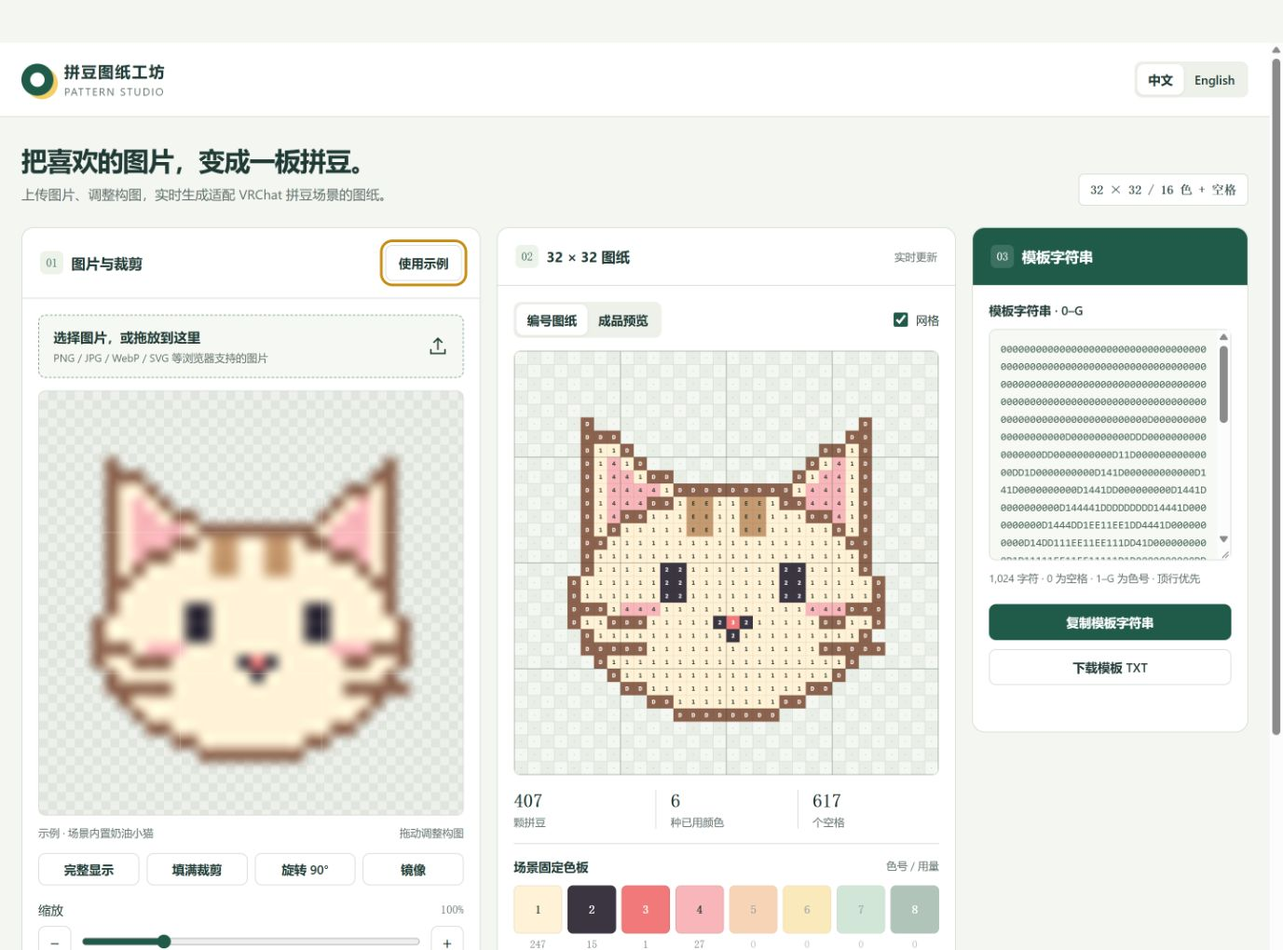
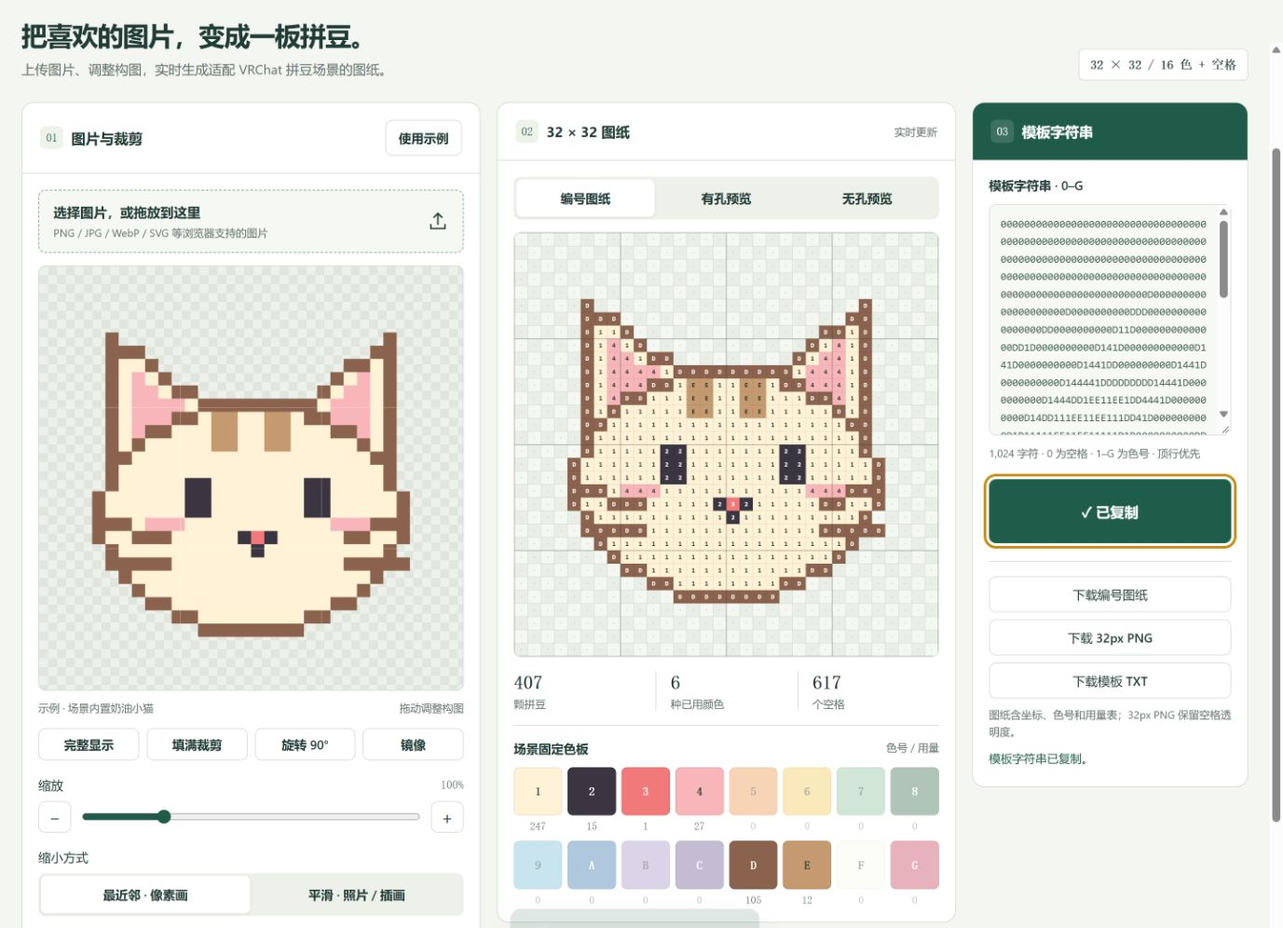
no message

diff --git a/index.html b/index.html
@@ -11,9 +11,12 @@
 *{box-sizing:border-box}body{margin:0;background:var(--paper);color:var(--ink)}button,input,select,textarea{font:inherit}button,select{cursor:pointer}button{border:1px solid var(--line);border-radius:8px;background:white;color:var(--ink);padding:10px 14px;font-size:.875rem;font-weight:600;transition:background .15s,transform .15s}button:hover{background:#edf2eb}button:active{transform:translateY(1px)}button:disabled{opacity:.42;cursor:not-allowed}button.primary{background:var(--green);color:white;border-color:var(--green)}button.primary:hover{background:#164534}:focus-visible{outline:3px solid #c78d14;outline-offset:3px}button:focus-visible{position:relative;z-index:2}
 .topbar{padding:20px max(24px,calc((100vw - 1440px)/2));border-bottom:1px solid var(--line);display:flex;align-items:center;justify-content:space-between;gap:16px;background:#fff}.brand{display:flex;gap:12px;align-items:center}.brand-mark{width:36px;height:36px;border:10px solid var(--green);border-radius:50%;box-shadow:5px 4px 0 var(--yellow)}.brand-name{font-weight:800;font-size:1.1rem;letter-spacing:.08em}.brand-sub{font-size:.75rem;letter-spacing:.18em;margin-top:3px;color:var(--muted)}main{max-width:1488px;margin:auto;padding:28px 24px 40px}.intro{display:flex;justify-content:space-between;align-items:end;gap:24px;margin-bottom:24px}h1{font-size:1.85rem;letter-spacing:-.04em;margin:0 0 7px}p{line-height:1.65;margin:0}.intro p{color:var(--muted);font-size:.9375rem}.spec{font:600 .875rem ui-monospace,monospace;border:1px solid var(--line);padding:9px 12px;border-radius:6px;white-space:nowrap;background:white}
 .workspace{display:grid;grid-template-columns:minmax(0,1fr) minmax(0,1fr) 310px;gap:18px;align-items:start}.panel{background:white;border:1px solid var(--line);border-radius:14px;overflow:hidden;min-width:0}.panel-head{padding:19px 20px;display:flex;justify-content:space-between;align-items:center;gap:12px;border-bottom:1px solid var(--line)}h2{font-size:1rem;display:flex;gap:9px;align-items:center;margin:0}.step{display:inline-grid;place-items:center;color:var(--green);background:#eef3e9;width:26px;height:26px;border-radius:6px;font:.8rem ui-monospace,monospace}.subtle{font-size:.75rem;color:var(--muted)}.panel-body{padding:18px}.upload{width:100%;display:flex;justify-content:space-between;align-items:center;gap:12px;border:1px dashed #8ca99b;padding:14px 16px;background:#f6f9f3;text-align:left;margin-bottom:14px}.upload strong{display:block;font-size:.9375rem}.upload small{display:block;color:var(--muted);font-size:.75rem;font-weight:400;margin-top:5px}.upload svg{flex-shrink:0}.file-input{position:absolute;width:1px;height:1px;opacity:0;overflow:hidden;pointer-events:none}
-.stage{position:relative;background-color:#edf0eb;background-image:linear-gradient(45deg,#e0e6de 25%,transparent 25%),linear-gradient(-45deg,#e0e6de 25%,transparent 25%),linear-gradient(45deg,transparent 75%,#e0e6de 75%),linear-gradient(-45deg,transparent 75%,#e0e6de 75%);background-size:20px 20px;background-position:0 0,0 10px,10px -10px,-10px 0;border:1px solid var(--line);border-radius:8px;overflow:hidden;aspect-ratio:1}.stage canvas{display:block;width:100%;height:100%}#cropCanvas{touch-action:none;cursor:grab}#cropCanvas:active{cursor:grabbing}.crop-guides{position:absolute;inset:0;pointer-events:none;background:linear-gradient(90deg,transparent calc(33.333% - .5px),#ffffff70 33.333%,transparent calc(33.333% + .5px),transparent calc(66.667% - .5px),#ffffff70 66.667%,transparent calc(66.667% + .5px)),linear-gradient(transparent calc(33.333% - .5px),#ffffff70 33.333%,transparent calc(33.333% + .5px),transparent calc(66.667% - .5px),#ffffff70 66.667%,transparent calc(66.667% + .5px))}.stage-note{display:flex;justify-content:space-between;gap:10px;color:var(--muted);font-size:.75rem;padding:10px 0 14px;line-height:1.5}.stage-note span:first-child{overflow:hidden;text-overflow:ellipsis;white-space:nowrap}.tool-row{display:flex;gap:8px;flex-wrap:wrap}.tool-row button{flex:1;white-space:nowrap;padding:8px 10px}.field{margin-top:18px}.field-label{display:flex;align-items:center;justify-content:space-between;gap:12px;font-size:.875rem;margin-bottom:9px}.field-label output{color:var(--muted);font: .8125rem ui-monospace,monospace}.range-row{display:flex;gap:10px;align-items:center}.range-row button{padding:4px 11px;font-size:1.2rem;font-weight:400}input[type=range]{width:100%;accent-color:var(--green);cursor:pointer;height:22px}select{border:1px solid var(--line);background:white;border-radius:7px;padding:10px 30px 10px 10px;width:100%;color:var(--ink);font-size:.875rem;min-width:0}.select-row{display:grid;grid-template-columns:1fr 1fr;gap:12px}.field-hint{font-size:.75rem;color:var(--muted);line-height:1.6;margin-top:8px}.preview-toolbar{display:flex;align-items:center;justify-content:space-between;gap:8px;margin-bottom:14px}.segmented{display:flex;background:#edf1ea;padding:3px;border-radius:8px}.segmented button{background:transparent;border:0;padding:8px 12px;box-shadow:none}.segmented button[aria-pressed=true]{background:white;box-shadow:0 1px 3px #1c382418}.check{display:flex;align-items:center;gap:6px;font-size:.8125rem;white-space:nowrap}input[type=checkbox]{accent-color:var(--green);width:16px;height:16px}.stats{display:grid;grid-template-columns:repeat(3,1fr);border-bottom:1px solid var(--line);padding:16px 0;margin-bottom:16px}.stat+.stat{border-left:1px solid var(--line);padding-left:16px}.stat strong{font:700 1.3rem ui-monospace,monospace}.stat span{display:block;font-size:.75rem;color:var(--muted);margin-top:4px}.palette-title{font-size:.875rem;font-weight:600;margin-bottom:12px;display:flex;justify-content:space-between;gap:10px}.palette-title span{font-size:.75rem;color:var(--muted);font-weight:400}.palette{display:grid;grid-template-columns:repeat(8,1fr);gap:10px 6px}.swatch{text-align:center;min-width:0}.chip{aspect-ratio:1;border-radius:6px;display:grid;place-items:center;border:1px solid #00000012;font:600 .8125rem ui-monospace,monospace}.swatch small{font:.75rem ui-monospace,monospace;color:var(--muted);display:block;margin-top:5px}.swatch.unused{opacity:.45}.download-row{margin-top:18px;display:flex;gap:8px}.download-row button{flex:1}.export-panel .panel-head{background:var(--green);color:white}.export-panel .step{background:#ffffff20;color:#fff}.export-panel label{font-size:.875rem}.code-info{font-size:.75rem;color:var(--muted);margin:10px 0;line-height:1.6;min-height:38px}textarea{display:block;width:100%;height:154px;resize:vertical;border:1px solid var(--line);border-radius:8px;padding:12px;background:#f7f9f5;color:#506b5f;font:.75rem/1.65 ui-monospace,Consolas,monospace;word-break:break-all}.full{width:100%;margin-top:10px}.status{font-size:.8125rem;color:var(--green);min-height:24px;margin-top:10px;line-height:1.6}.status.error{color:#a5332b}.footer{display:flex;justify-content:space-between;gap:20px;margin-top:24px;font-size:.75rem;color:var(--muted);line-height:1.7}.drop-active .panel:first-child{outline:3px dashed var(--green);outline-offset:4px}.empty-note{margin-top:12px;color:#a5332b;font-size:.8125rem}[hidden]{display:none!important}noscript{display:block;padding:20px;background:#fff1cd}
+.stage{position:relative;background-color:#edf0eb;background-image:linear-gradient(45deg,#e0e6de 25%,transparent 25%),linear-gradient(-45deg,#e0e6de 25%,transparent 25%),linear-gradient(45deg,transparent 75%,#e0e6de 75%),linear-gradient(-45deg,transparent 75%,#e0e6de 75%);background-size:20px 20px;background-position:0 0,0 10px,10px -10px,-10px 0;border:1px solid var(--line);border-radius:8px;overflow:hidden;aspect-ratio:1}.stage canvas{display:block;width:100%;height:100%}#cropCanvas{touch-action:none;cursor:grab}#cropCanvas:active{cursor:grabbing}.crop-guides{position:absolute;inset:0;pointer-events:none;background:linear-gradient(90deg,transparent calc(33.333% - .5px),#ffffff70 33.333%,transparent calc(33.333% + .5px),transparent calc(66.667% - .5px),#ffffff70 66.667%,transparent calc(66.667% + .5px)),linear-gradient(transparent calc(33.333% - .5px),#ffffff70 33.333%,transparent calc(33.333% + .5px),transparent calc(66.667% - .5px),#ffffff70 66.667%,transparent calc(66.667% + .5px))}.stage-note{display:flex;justify-content:space-between;gap:10px;color:var(--muted);font-size:.75rem;padding:10px 0 14px;line-height:1.5}.stage-note span:first-child{overflow:hidden;text-overflow:ellipsis;white-space:nowrap}.tool-row{display:flex;gap:8px;flex-wrap:wrap}.tool-row button{flex:1;white-space:nowrap;padding:8px 10px}.field{margin-top:18px}.field-label{display:flex;align-items:center;justify-content:space-between;gap:12px;font-size:.875rem;margin-bottom:9px}.field-label output{color:var(--muted);font: .8125rem ui-monospace,monospace}.range-row{display:flex;gap:10px;align-items:center}.range-row button{padding:4px 11px;font-size:1.2rem;font-weight:400}input[type=range]{width:100%;accent-color:var(--green);cursor:pointer;height:22px}select{border:1px solid var(--line);background:white;border-radius:7px;padding:10px 30px 10px 10px;width:100%;color:var(--ink);font-size:.875rem;min-width:0}.select-row{display:grid;grid-template-columns:1fr 1fr;gap:12px}.field-hint{font-size:.75rem;color:var(--muted);line-height:1.6;margin-top:8px}.preview-toolbar{display:flex;align-items:center;justify-content:space-between;gap:8px;margin-bottom:14px}.segmented{display:flex;background:#edf1ea;padding:3px;border-radius:8px}.segmented button{background:transparent;border:0;padding:8px 12px;box-shadow:none}.segmented button[aria-pressed=true]{background:white;box-shadow:0 1px 3px #1c382418}.stats{display:grid;grid-template-columns:repeat(3,1fr);border-bottom:1px solid var(--line);padding:16px 0;margin-bottom:16px}.stat+.stat{border-left:1px solid var(--line);padding-left:16px}.stat strong{font:700 1.3rem ui-monospace,monospace}.stat span{display:block;font-size:.75rem;color:var(--muted);margin-top:4px}.palette-title{font-size:.875rem;font-weight:600;margin-bottom:12px;display:flex;justify-content:space-between;gap:10px}.palette-title span{font-size:.75rem;color:var(--muted);font-weight:400}.palette{display:grid;grid-template-columns:repeat(8,1fr);gap:10px 6px}.swatch{text-align:center;min-width:0}.chip{aspect-ratio:1;border-radius:6px;display:grid;place-items:center;border:1px solid #00000012;font:600 .8125rem ui-monospace,monospace}.swatch small{font:.75rem ui-monospace,monospace;color:var(--muted);display:block;margin-top:5px}.swatch.unused{opacity:.45}.export-panel .panel-head{background:var(--green);color:white}.export-panel .step{background:#ffffff20;color:#fff}.export-panel label{font-size:.875rem}.code-info{font-size:.75rem;color:var(--muted);margin:10px 0;line-height:1.6;min-height:38px}textarea{display:block;width:100%;height:154px;resize:vertical;border:1px solid var(--line);border-radius:8px;padding:12px;background:#f7f9f5;color:#506b5f;font:.75rem/1.65 ui-monospace,Consolas,monospace;word-break:break-all}.full{width:100%;margin-top:10px}.status{font-size:.8125rem;color:var(--green);min-height:24px;margin-top:10px;line-height:1.6}.status.error{color:#a5332b}.footer{display:flex;justify-content:space-between;gap:20px;margin-top:24px;font-size:.75rem;color:var(--muted);line-height:1.7}.drop-active .panel:first-child{outline:3px dashed var(--green);outline-offset:4px}.empty-note{margin-top:12px;color:#a5332b;font-size:.8125rem}[hidden]{display:none!important}noscript{display:block;padding:20px;background:#fff1cd}
 @media(min-width:1500px){.workspace{grid-template-columns:minmax(0,1fr) minmax(0,1fr) 320px}}@media(max-width:1150px){.workspace{grid-template-columns:minmax(0,1fr) minmax(0,1fr)}.export-panel{grid-column:1/-1}.export-panel .panel-body{max-width:none}.code-info{min-height:0}}@media(max-width:680px){.topbar{padding:17px 18px}main{padding:22px 14px}.intro{display:block}.intro h1{font-size:1.6rem}.spec{display:inline-block;margin-top:14px}.workspace{display:block}.panel{margin-bottom:18px}.panel-head{padding:17px}.panel-body{padding:15px}.export-panel .panel-body{display:block}.footer{display:block}.footer span{display:block;margin-bottom:4px}.palette{gap:10px 8px}}
 .language-switch{flex-shrink:0}.language-switch button{font-weight:600}.code-label{display:block;margin-bottom:12px;font-weight:600}.code-info{min-height:0}textarea{height:260px}.brand-sub{letter-spacing:.12em}.tool-row button{white-space:normal}@media(max-width:680px){.brand-sub{display:none}.brand-name{font-size:1rem;letter-spacing:0}.brand{gap:10px}.language-switch button{padding:8px 10px}.topbar{gap:10px}.tool-row{display:grid;grid-template-columns:repeat(2,minmax(0,1fr))}.code-info{font-size:.8125rem}}
+.preview-modes{display:grid;grid-template-columns:repeat(3,minmax(0,1fr));width:100%;gap:3px}.preview-option{position:relative;min-width:0}.preview-option input{position:absolute;opacity:0;width:1px;height:1px}.preview-option label{display:grid;place-items:center;min-height:42px;height:100%;padding:9px 8px;border-radius:6px;font-size:.875rem;font-weight:600;text-align:center;cursor:pointer;line-height:1.4}.preview-option input:checked+label{background:#fff;box-shadow:0 1px 3px #1c382418}.preview-option input:focus-visible+label{outline:3px solid #c78d14;outline-offset:1px}.copy-main{min-height:72px;padding:22px 16px;font-size:1rem;font-weight:700}.download-actions{display:grid;gap:8px;border-top:1px solid var(--line);margin-top:20px;padding-top:16px}.download-actions button{width:100%;font-weight:500;background:#fff}.download-actions button:hover{background:#edf2eb}
+.copy-main.is-copied{background:#28754e;border-color:#28754e}.copy-toast{position:fixed;left:50%;bottom:max(24px,env(safe-area-inset-bottom));transform:translate(-50%,12px);z-index:1000;display:flex;align-items:center;gap:12px;width:max-content;max-width:calc(100vw - 32px);padding:17px 22px;border:1px solid #ffffff35;border-radius:12px;background:#205b4a;color:#fff;box-shadow:0 8px 32px #102a3540;font-size:1rem;font-weight:600;line-height:1.5;opacity:0;visibility:hidden;pointer-events:none;transition:opacity .16s ease,transform .16s ease,visibility .16s}.copy-toast.is-visible{opacity:1;visibility:visible;transform:translate(-50%,0)}.toast-icon{display:grid;place-items:center;flex-shrink:0;width:30px;height:30px;border-radius:50%;background:#ffffff24;font-size:1.2rem}@media(prefers-reduced-motion:reduce){.copy-toast{transition:none}}
+.sampling-modes{display:grid;grid-template-columns:repeat(2,minmax(0,1fr));width:100%;gap:3px}
 </style>
 </head>
 <body>
@@ -29,25 +32,26 @@
 <div class="stage-note"><span id="fileName">Example · Cream Kitten</span><span data-i18n="dragHint">Drag to adjust</span></div>
 <div class="tool-row"><button id="fitButton" type="button" data-i18n="fit">Fit image</button><button id="fillButton" type="button" data-i18n="fill">Fill square</button><button id="rotateButton" type="button" data-i18n="rotate" data-i18n-title="rotateTitle" title="Rotate 90 degrees clockwise">Rotate 90°</button><button id="mirrorButton" type="button" aria-pressed="false" data-i18n="mirror">Mirror</button></div>
 <div class="field"><label class="field-label" for="zoom"><span data-i18n="zoom">Zoom</span><output id="zoomValue" for="zoom">100%</output></label><div class="range-row"><button id="zoomOut" type="button" data-i18n-aria-label="zoomOut" aria-label="Zoom out">−</button><input id="zoom" type="range" min="10" max="400" step="0.1" value="100"><button id="zoomIn" type="button" data-i18n-aria-label="zoomIn" aria-label="Zoom in">+</button></div></div>
-<div class="select-row"><div class="field"><label class="field-label" for="sampling" data-i18n="sampling">Resampling</label><select id="sampling"><option value="smooth" data-i18n="smooth">Smooth · photos</option><option value="pixel" data-i18n="pixel">Nearest · pixel art</option></select></div><div class="field"><label class="field-label" for="dither" data-i18n="dither">Color transitions</label><select id="dither"><option value="none" data-i18n="blocks">Solid colors</option><option value="floyd" data-i18n="diffusion">Dither · gradients</option></select></div></div>
+<div class="field"><div class="field-label" id="samplingLabel" data-i18n="sampling">Resampling</div><div class="segmented sampling-modes" role="radiogroup" aria-labelledby="samplingLabel"><div class="preview-option"><input id="samplingNearest" type="radio" name="samplingMode" value="pixel" checked><label for="samplingNearest" data-i18n="pixel">Nearest neighbor (pixel art)</label></div><div class="preview-option"><input id="samplingSmooth" type="radio" name="samplingMode" value="smooth"><label for="samplingSmooth" data-i18n="smooth">Smooth (photos / illustrations)</label></div></div></div>
 <div class="select-row"><div class="field"><label class="field-label" for="background" data-i18n="background">Transparent areas</label><select id="background"><option value="empty" data-i18n="keepEmpty">Leave empty</option><option value="matte" data-i18n="fillBackground">Fill with background</option></select></div><div class="field"><label class="field-label" for="matte" data-i18n="matte">Edge / background color</label><select id="matte"></select></div></div>
 <div class="field" id="alphaField"><label class="field-label" for="alpha"><span data-i18n="alpha">Alpha threshold</span><output id="alphaValue" for="alpha">128 / 255</output></label><input id="alpha" type="range" min="1" max="255" value="128"><p class="field-hint" data-i18n="alphaHint">Pixels below this threshold stay empty. Translucent edges blend with the background color; raise the threshold to remove faint edges.</p></div>
 </div></section>
 <section class="panel" aria-labelledby="previewTitle"><div class="panel-head"><h2 id="previewTitle"><span class="step">02</span><span data-i18n="previewTitle">32 × 32 pattern</span></h2><span class="subtle" data-i18n="live">Live preview</span></div><div class="panel-body">
-<div class="preview-toolbar"><div class="segmented" data-i18n-aria-label="previewMode" aria-label="Preview mode"><button id="chartView" type="button" aria-pressed="true" data-i18n="chartView">Pattern</button><button id="beadView" type="button" aria-pressed="false" data-i18n="beadView">Bead preview</button></div><label class="check"><input id="showGrid" type="checkbox" checked><span data-i18n="grid">Grid</span></label></div>
+<div class="preview-toolbar"><div class="segmented preview-modes" role="radiogroup" data-i18n-aria-label="previewMode" aria-label="Preview mode"><div class="preview-option"><input id="chartView" type="radio" name="previewMode" value="chart" checked><label for="chartView" data-i18n="chartView">Pattern</label></div><div class="preview-option"><input id="holesView" type="radio" name="previewMode" value="holes"><label for="holesView" data-i18n="holesView">With holes</label></div><div class="preview-option"><input id="solidView" type="radio" name="previewMode" value="solid"><label for="solidView" data-i18n="solidView">No holes</label></div></div></div>
 <div class="stage"><canvas id="previewCanvas" width="1024" height="1024" role="img" aria-label="32 by 32 labeled bead pattern"></canvas></div>
 <div class="stats"><div class="stat"><strong id="beadCount">0</strong><span data-i18n="beads">beads</span></div><div class="stat"><strong id="colorCount">0</strong><span data-i18n="colorsUsed">colors used</span></div><div class="stat"><strong id="emptyCount">1024</strong><span data-i18n="emptyCells">empty cells</span></div></div>
 <div class="palette-title"><b data-i18n="paletteTitle">World palette</b><span data-i18n="paletteHint">Code / quantity</span></div><div class="palette" id="palette" data-i18n-aria-label="paletteAria" aria-label="16-color palette and bead counts"></div>
-<div class="field"><label class="field-label" for="finish" data-i18n="finish">Bead style</label><select id="finish"><option value="holes" data-i18n="holes">Round beads · HOLES</option><option value="solid" data-i18n="solid">Solid mosaic · SOLID</option></select></div>
-<div class="download-row"><button id="downloadChart" type="button" class="primary" data-i18n="downloadChart">Download pattern</button><button id="downloadPixels" type="button" data-i18n="downloadPixels">32px PNG</button></div>
-<p class="field-hint" data-i18n="downloadHint">The pattern includes coordinates, color codes and counts. The 32px PNG preserves transparent cells.</p><p id="emptyNote" class="empty-note" hidden data-i18n="emptyNote">The pattern is empty. Adjust the crop or lower the alpha threshold.</p>
+<p id="emptyNote" class="empty-note" hidden data-i18n="emptyNote">The pattern is empty. Adjust the crop or lower the alpha threshold.</p>
 </div></section>
 <section class="panel export-panel" aria-labelledby="exportTitle"><div class="panel-head"><h2 id="exportTitle"><span class="step">03</span><span data-i18n="exportTitle">Template string</span></h2></div><div class="panel-body">
 <label class="code-label" for="code" data-i18n="templateLabel">Template · 0–G</label><textarea id="code" spellcheck="false" readonly aria-describedby="codeInfo"></textarea><p class="code-info" id="codeInfo"></p>
-<button class="primary full" id="copyButton" type="button" data-i18n="copy">Copy template</button><button class="full" id="downloadCode" type="button" data-i18n="downloadCode">Download TXT</button><div class="status" id="status" role="status" aria-live="polite"></div>
+<button class="primary full copy-main" id="copyButton" type="button" data-i18n="copy">Copy template</button>
+<div class="download-actions"><button id="downloadChart" type="button" data-i18n="downloadChart">Download pattern</button><button id="downloadPixels" type="button" data-i18n="downloadPixels">32px PNG</button><button id="downloadCode" type="button" data-i18n="downloadCode">Download TXT</button></div>
+<p class="field-hint" data-i18n="downloadHint">The pattern includes coordinates, color codes and counts. The 32px PNG preserves transparent cells.</p><div class="status" id="status" role="status" aria-live="polite"></div>
 </div></section>
 </div><footer class="footer"><span data-i18n="footer">Made for the Pixel Beads VRChat world · Original 16-color palette</span></footer>
 </main>
+<div class="copy-toast" id="copyToast" role="status" aria-live="polite" aria-atomic="true"><span class="toast-icon" aria-hidden="true">✓</span><span id="copyToastText"></span></div>
 <script id="bead-core">
 // Contract: Assets/PixelBeads/Scripts/PBTemplates.cs.
 // Images and template strings use top-down, left-to-right order.
@@ -105,24 +109,24 @@ const BeadI18n = (() => {
       brand:'Pixel Beads', language:'Language', headline:'Turn a favorite image into bead art.', intro:'Upload an image and adjust the crop to create a pattern for the Pixel Beads VRChat world.', spec:'32 × 32 / 16 colors + empty',
       cropTitle:'Image & crop', demo:'Use example', chooseFile:'Choose an image file', upload:'Choose an image or drop it here', formats:'PNG / JPG / WebP / SVG and other supported images', cropAria:'Image crop. Drag or use arrow keys to move the image. Use the slider to zoom.',
       demoFile:'Example · Cream Kitten', demoName:'Cream Kitten', defaultName:'Bead pattern', dragHint:'Drag to adjust', fit:'Fit image', fill:'Fill square', rotate:'Rotate 90°', rotateTitle:'Rotate 90 degrees clockwise', mirror:'Mirror', zoom:'Zoom', zoomOut:'Zoom out', zoomIn:'Zoom in',
-      sampling:'Resampling', smooth:'Smooth · photos', pixel:'Nearest · pixel art', dither:'Color transitions', blocks:'Solid colors', diffusion:'Dither · gradients', background:'Transparent areas', keepEmpty:'Leave empty', fillBackground:'Fill with background', matte:'Edge / background color', alpha:'Alpha threshold', alphaHint:'Pixels below this threshold stay empty. Translucent edges blend with the background color; raise the threshold to remove faint edges.',
-      previewTitle:'32 × 32 pattern', live:'Live preview', previewMode:'Preview mode', chartView:'Pattern', beadView:'Bead preview', grid:'Grid', chartAria:'32 by 32 labeled bead pattern', beadAria:'32 by 32 finished bead preview', beads:'beads', colorsUsed:'colors used', emptyCells:'empty cells', paletteTitle:'World palette', paletteHint:'Code / quantity', paletteAria:'16-color palette and bead counts',
-      finish:'Bead style', holes:'Round beads · HOLES', solid:'Solid mosaic · SOLID', downloadChart:'Download pattern', downloadPixels:'32px PNG', downloadHint:'The pattern includes coordinates, color codes and counts. The 32px PNG preserves transparent cells.', emptyNote:'The pattern is empty. Adjust the crop or lower the alpha threshold.',
+      sampling:'Resampling', smooth:'Smooth (photos / illustrations)', pixel:'Nearest neighbor (pixel art)', background:'Transparent areas', keepEmpty:'Leave empty', fillBackground:'Fill with background', matte:'Edge / background color', alpha:'Alpha threshold', alphaHint:'Pixels below this threshold stay empty. Translucent edges blend with the background color; raise the threshold to remove faint edges.',
+      previewTitle:'32 × 32 pattern', live:'Live preview', previewMode:'Preview mode', chartView:'Pattern', holesView:'With holes', solidView:'No holes', chartAria:'32 by 32 labeled bead pattern with grid', holesAria:'32 by 32 round bead preview with holes', solidAria:'32 by 32 solid mosaic preview without holes', beads:'beads', colorsUsed:'colors used', emptyCells:'empty cells', paletteTitle:'World palette', paletteHint:'Code / quantity', paletteAria:'16-color palette and bead counts',
+      downloadChart:'Download pattern', downloadPixels:'32px PNG', downloadHint:'The pattern includes coordinates, color codes and counts. The 32px PNG preserves transparent cells.', emptyNote:'The pattern is empty. Adjust the crop or lower the alpha threshold.',
       exportTitle:'Template string', templateLabel:'Template · 0–G', codeInfo:'1,024 characters · 0 = empty · 1–G = colors · top row first', copy:'Copy template', downloadCode:'Download TXT', footer:'Made for the Pixel Beads VRChat world · Original 16-color palette',
-      loading:'Reading image…', loaded:'Image loaded. Drag or zoom to adjust. Animated images use a single frame.', loadError:'This image could not be read. Try a supported PNG, JPG, WebP or SVG file.', copied:'Template copied.', copyFallback:'Template selected. Press Ctrl+C (Mac: ⌘C) to copy.', pngReady:'PNG download prepared.', pngError:'Image export failed. Please try again.', txtReady:'Template TXT download prepared.',
-      colorNames:['Cream','Ink','Coral','Pink','Apricot','Yellow','Mint','Forest','Sky','Blue','Lilac','Violet','Brown','Caramel','Ivory','Berry'], beadQuantity:'{count} beads', chartTitle:'PIXEL BEADS / BEAD PATTERN', chartSubtitle:'32 × 32  ·  {count} beads  ·  {finish}  ·  Leave empty cells blank', holesShort:'Round beads', solidShort:'Solid mosaic', chartFooter:'Pixel Beads · 16 colors · Codes 1–9 / A–G · Coordinates start at the top left', chartSuffix:'_pattern.png'
+      loading:'Reading image…', loaded:'Image loaded. Drag or zoom to adjust. Animated images use a single frame.', loadError:'This image could not be read. Try a supported PNG, JPG, WebP or SVG file.', copied:'Template copied.', copyDone:'✓ Copied', copyNotice:'Template copied to clipboard.', copyFallback:'Template selected. Press Ctrl+C (Mac: ⌘C) to copy.', pngReady:'PNG download prepared.', pngError:'Image export failed. Please try again.', txtReady:'Template TXT download prepared.',
+      colorNames:['Cream','Ink','Coral','Pink','Apricot','Yellow','Mint','Forest','Sky','Blue','Lilac','Violet','Brown','Caramel','Ivory','Berry'], beadQuantity:'{count} beads', chartTitle:'PIXEL BEADS / BEAD PATTERN', chartSubtitle:'32 × 32  ·  {count} beads  ·  Leave empty cells blank', chartFooter:'Pixel Beads · 16 colors · Codes 1–9 / A–G · Coordinates start at the top left', chartSuffix:'_pattern.png'
     },
     zh: {
       title:'拼豆图纸工坊 · Pixel Beads', description:'适配 Pixel Beads VRChat 场景的图片转拼豆工具：裁剪、缩放、32×32 固定 16 色图纸与模板字符串。',
       brand:'拼豆图纸工坊', language:'语言', headline:'把喜欢的图片，变成一板拼豆。', intro:'上传图片、调整构图，实时生成适配 VRChat 拼豆场景的图纸。', spec:'32 × 32 / 16 色 + 空格',
       cropTitle:'图片与裁剪', demo:'使用示例', chooseFile:'选择图片文件', upload:'选择图片，或拖放到这里', formats:'PNG / JPG / WebP / SVG 等浏览器支持的图片', cropAria:'图片裁剪区。拖动图片或用方向键移动，使用下方滑块缩放。',
       demoFile:'示例 · 场景内置奶油小猫', demoName:'奶油小猫', defaultName:'拼豆图纸', dragHint:'拖动调整构图', fit:'完整显示', fill:'填满裁剪', rotate:'旋转 90°', rotateTitle:'顺时针旋转 90 度', mirror:'镜像', zoom:'缩放', zoomOut:'缩小', zoomIn:'放大',
-      sampling:'缩小方式', smooth:'平滑 · 照片 / 插画', pixel:'最近邻 · 像素画', dither:'颜色过渡', blocks:'色块 · 更易拼豆', diffusion:'抖动 · 保留渐变', background:'透明区域', keepEmpty:'保留为空格', fillBackground:'用底色填充', matte:'边缘 / 填充底色', alpha:'透明度阈值', alphaHint:'低于阈值的像素留空；半透明边缘与底色混合。调高可减少边缘杂点。',
-      previewTitle:'32 × 32 图纸', live:'实时更新', previewMode:'预览方式', chartView:'编号图纸', beadView:'成品预览', grid:'网格', chartAria:'32 乘 32 拼豆编号图纸', beadAria:'32 乘 32 拼豆成品预览', beads:'颗拼豆', colorsUsed:'种已用颜色', emptyCells:'个空格', paletteTitle:'场景固定色板', paletteHint:'色号 / 用量', paletteAria:'16 色色板和各颜色用量',
-      finish:'成品样式', holes:'有孔圆豆 · HOLES', solid:'实心马赛克 · SOLID', downloadChart:'下载编号图纸', downloadPixels:'下载 32px PNG', downloadHint:'图纸含坐标、色号和用量表；32px PNG 保留空格透明度。', emptyNote:'当前图案全为空格。请调整构图或降低透明度阈值。',
+      sampling:'缩小方式', smooth:'平滑（适合照片或插画）', pixel:'最近相邻（适合像素画）', background:'透明区域', keepEmpty:'保留为空格', fillBackground:'用底色填充', matte:'边缘 / 填充底色', alpha:'透明度阈值', alphaHint:'低于阈值的像素留空；半透明边缘与底色混合。调高可减少边缘杂点。',
+      previewTitle:'32 × 32 图纸', live:'实时更新', previewMode:'预览方式', chartView:'编号图纸', holesView:'有孔预览', solidView:'无孔预览', chartAria:'带网格的 32 乘 32 拼豆编号图纸', holesAria:'32 乘 32 有孔圆豆预览', solidAria:'32 乘 32 无孔马赛克预览', beads:'颗拼豆', colorsUsed:'种已用颜色', emptyCells:'个空格', paletteTitle:'场景固定色板', paletteHint:'色号 / 用量', paletteAria:'16 色色板和各颜色用量',
+      downloadChart:'下载编号图纸', downloadPixels:'下载 32px PNG', downloadHint:'图纸含坐标、色号和用量表；32px PNG 保留空格透明度。', emptyNote:'当前图案全为空格。请调整构图或降低透明度阈值。',
       exportTitle:'模板字符串', templateLabel:'模板字符串 · 0–G', codeInfo:'1,024 字符 · 0 为空格 · 1–G 为色号 · 顶行优先', copy:'复制模板字符串', downloadCode:'下载模板 TXT', footer:'适配 Pixel Beads VRChat 场景 · 固定 16 色色板',
-      loading:'正在读取图片…', loaded:'图片已载入，可拖动、缩放调整。动图仅取静态帧。', loadError:'无法读取这张图片。请使用浏览器支持的 PNG、JPG、WebP 或 SVG 等格式。', copied:'模板字符串已复制。', copyFallback:'模板字符串已全选，请按 Ctrl+C（Mac：⌘C）复制。', pngReady:'已生成 PNG 下载。', pngError:'导出图片失败，请重试。', txtReady:'已生成模板 TXT 下载。',
-      colorNames:['奶油','墨黑','珊瑚','浅粉','杏橙','暖黄','浅绿','森林','浅蓝','海蓝','浅紫','深紫','棕色','焦糖','米白','莓红'], beadQuantity:'{count} 颗', chartTitle:'PIXEL BEADS / 拼豆图纸', chartSubtitle:'32 × 32  ·  {count} 颗  ·  {finish}  ·  空格不放豆', holesShort:'有孔圆豆', solidShort:'实心马赛克', chartFooter:'Pixel Beads 场景固定 16 色  ·  色号 1–9 / A–G  ·  坐标自左上角起', chartSuffix:'_编号图纸.png'
+      loading:'正在读取图片…', loaded:'图片已载入，可拖动、缩放调整。动图仅取静态帧。', loadError:'无法读取这张图片。请使用浏览器支持的 PNG、JPG、WebP 或 SVG 等格式。', copied:'模板字符串已复制。', copyDone:'✓ 已复制', copyNotice:'模板字符串已复制到剪贴板', copyFallback:'模板字符串已全选，请按 Ctrl+C（Mac：⌘C）复制。', pngReady:'已生成 PNG 下载。', pngError:'导出图片失败，请重试。', txtReady:'已生成模板 TXT 下载。',
+      colorNames:['奶油','墨黑','珊瑚','浅粉','杏橙','暖黄','浅绿','森林','浅蓝','海蓝','浅紫','深紫','棕色','焦糖','米白','莓红'], beadQuantity:'{count} 颗', chartTitle:'PIXEL BEADS / 拼豆图纸', chartSubtitle:'32 × 32  ·  {count} 颗  ·  空格不放豆', chartFooter:'Pixel Beads 场景固定 16 色  ·  色号 1–9 / A–G  ·  坐标自左上角起', chartSuffix:'_编号图纸.png'
     }
   };
   function detect(browserLanguage) { return /^zh(?:[-_]|$)/i.test(browserLanguage || '') ? 'zh' : 'en'; }
@@ -143,7 +147,18 @@ const BeadI18n = (() => {
   const state={source:null,oriented:null,angle:0,mirror:false,zoom:100,x:0,y:0,view:'chart',cells:new Uint8Array(1024),counts:new Uint16Array(17),name:'',isDemo:true,statusKey:'',statusError:false,ticket:0};
   const crop=$('cropCanvas'),preview=$('previewCanvas'),sample=document.createElement('canvas'); sample.width=sample.height=32;
   const sampleContext=sample.getContext('2d',{willReadFrequently:true});
-  let frame=0;
+  let frame=0,copyFeedbackTimer=0;
+  function clearCopyFeedback(){
+    clearTimeout(copyFeedbackTimer);copyFeedbackTimer=0;
+    $('copyButton').classList.remove('is-copied');$('copyButton').dataset.i18n='copy';$('copyButton').textContent=t('copy');
+    $('copyToast').classList.remove('is-visible');$('copyToastText').textContent='';
+  }
+  function confirmCopy(){
+    clearTimeout(copyFeedbackTimer);status('copied');
+    $('copyButton').classList.add('is-copied');$('copyButton').dataset.i18n='copyDone';$('copyButton').textContent=t('copyDone');
+    $('copyToast').classList.add('is-visible');$('copyToastText').textContent=t('copyNotice');
+    copyFeedbackTimer=setTimeout(clearCopyFeedback,3500);
+  }
   function status(key,error=false){state.statusKey=key;state.statusError=error;$('status').textContent=key?t(key):'';$('status').classList.toggle('error',error);}
   function applyLanguage(next){
     language=next;document.documentElement.lang=next==='zh'?'zh-CN':'en';document.title=t('title');
@@ -153,7 +168,8 @@ const BeadI18n = (() => {
     $('languageZh').setAttribute('aria-pressed',String(next==='zh'));$('languageEn').setAttribute('aria-pressed',String(next==='en'));
     Array.from($('matte').options).forEach((option,i)=>option.textContent=C.symbols[i+1]+' · '+t('colorNames')[i]);
     if(state.isDemo){state.name=t('demoName');$('fileName').textContent=t('demoFile');}
-    preview.setAttribute('aria-label',t(state.view==='chart'?'chartAria':'beadAria'));
+    preview.setAttribute('aria-label',t(state.view+'Aria'));
+    if($('copyToast').classList.contains('is-visible'))$('copyToastText').textContent=t('copyNotice');
     status(state.statusKey,state.statusError);render();
   }
   function textColor(i){const [r,g,b]=C.rgb[i];return .2126*r+.7152*g+.0722*b>151?'#24362f':'#ffffff';}
@@ -171,7 +187,7 @@ const BeadI18n = (() => {
   function sourceTo(g,size){
     g.clearRect(0,0,size,size);const s=state.oriented;if(!s)return;
     const scale=size/Math.min(s.width,s.height)*state.zoom/100;
-    g.imageSmoothingEnabled=$('sampling').value==='smooth';g.imageSmoothingQuality='high';
+    g.imageSmoothingEnabled=$('samplingSmooth').checked;g.imageSmoothingQuality='high';
     g.drawImage(s,(size-s.width*scale)/2+state.x*size,(size-s.height*scale)/2+state.y*size,s.width*scale,s.height*scale);
   }
   function schedule(){if(!frame)frame=requestAnimationFrame(()=>{frame=0;render();});}
@@ -179,33 +195,33 @@ const BeadI18n = (() => {
   function render(){
     if(!state.oriented)return;
     sourceTo(crop.getContext('2d'),crop.width);sourceTo(sampleContext,32);
-    state.cells=C.quantize(sampleContext.getImageData(0,0,32,32).data,{empty:$('background').value==='empty',threshold:+$('alpha').value,matte:+$('matte').value,dither:$('dither').value==='floyd'});
+    state.cells=C.quantize(sampleContext.getImageData(0,0,32,32).data,{empty:$('background').value==='empty',threshold:+$('alpha').value,matte:+$('matte').value,dither:false});
     state.counts.fill(0);for(const v of state.cells)state.counts[v]++;
     $('zoomValue').textContent=Math.round(state.zoom)+'%';$('zoom').value=state.zoom;
     $('alphaValue').textContent=$('alpha').value+' / 255';$('alphaField').hidden=$('background').value!=='empty';
-    drawBoard(preview.getContext('2d'),0,0,preview.width,state.view==='chart',$('showGrid').checked,false);
+    drawBoard(preview.getContext('2d'),0,0,preview.width,state.view,false);
     $('beadCount').textContent=1024-state.counts[0];$('colorCount').textContent=Array.from(state.counts).slice(1).filter(Boolean).length;$('emptyCount').textContent=state.counts[0];
     Array.from($('palette').children).forEach((el,i)=>{el.lastChild.textContent=state.counts[i+1];el.classList.toggle('unused',!state.counts[i+1]);el.title=C.symbols[i+1]+' · '+t('colorNames')[i]+' #'+C.hex[i]+' · '+t('beadQuantity',{count:state.counts[i+1]});el.setAttribute('aria-label',el.title);});
     $('emptyNote').hidden=state.counts[0]!==1024;
     for(const id of ['copyButton','downloadCode'])$(id).disabled=state.counts[0]===1024;
     updateCode();
   }
-  function drawBoard(g,left,top,size,labels,grid,white){
-    const cell=size/32;g.clearRect(left,top,size,size);
+  function drawBoard(g,left,top,size,mode,white){
+    const labels=mode==='chart',cell=size/32;g.clearRect(left,top,size,size);
     for(let y=0;y<32;y++)for(let x=0;x<32;x++){
       const v=state.cells[y*32+x],px=left+x*cell,py=top+y*cell;
-      g.fillStyle=white?'#ffffff':(x+y)%2?'#e9eee7':'#f5f7f2';g.fillRect(px,py,cell,cell);
+      g.fillStyle=white?'#ffffff':(labels&&(x+y)%2?'#e9eee7':'#f5f7f2');g.fillRect(px,py,cell,cell);
       if(v){
         g.fillStyle='#'+C.hex[v-1];
-        if(!labels&&$('finish').value==='holes'){
+        if(mode==='holes'){
           g.beginPath();g.arc(px+cell/2,py+cell/2,cell*.455,0,Math.PI*2);g.arc(px+cell/2,py+cell/2,cell*.145,0,Math.PI*2,true);g.fill('evenodd');
         }else g.fillRect(px,py,cell,cell);
         if(labels){g.fillStyle=textColor(v-1);g.font='600 '+Math.round(cell*.48)+'px ui-monospace,Consolas,monospace';g.textAlign='center';g.textBaseline='middle';g.fillText(C.symbols[v],px+cell/2,py+cell*.54);}
       }else if(labels){g.fillStyle='#c6cec3';g.beginPath();g.arc(px+cell/2,py+cell/2,Math.max(1,cell*.04),0,Math.PI*2);g.fill();}
     }
-    if(grid){for(let i=0;i<=32;i++){g.strokeStyle=i%8===0?'#233b355b':'#233b3522';g.lineWidth=i%8===0?2:1;g.beginPath();g.moveTo(left+i*cell,top);g.lineTo(left+i*cell,top+size);g.moveTo(left,top+i*cell);g.lineTo(left+size,top+i*cell);g.stroke();}}
+    if(labels){for(let i=0;i<=32;i++){g.strokeStyle=i%8===0?'#233b355b':'#233b3522';g.lineWidth=i%8===0?2:1;g.beginPath();g.moveTo(left+i*cell,top);g.lineTo(left+i*cell,top+size);g.moveTo(left,top+i*cell);g.lineTo(left+size,top+i*cell);g.stroke();}}
   }
-  function updateCode(){ $('code').value=C.template(state.cells);$('codeInfo').textContent=t('codeInfo'); }
+  function updateCode(){ const code=C.template(state.cells);if($('code').value!==code)clearCopyFeedback();$('code').value=code;$('codeInfo').textContent=t('codeInfo'); }
   function resetCrop(fit=false){state.x=state.y=0;state.zoom=fit?Math.min(state.oriented.width,state.oriented.height)/Math.max(state.oriented.width,state.oriented.height)*100:100;schedule();}
   function setZoom(value){const next=Math.min(400,Math.max(+$('zoom').min,value)),ratio=next/state.zoom;state.x*=ratio;state.y*=ratio;state.zoom=next;schedule();}
   async function loadFile(file){
@@ -238,10 +254,14 @@ const BeadI18n = (() => {
   $('rotateButton').onclick=()=>{state.angle=(state.angle+(state.mirror?-90:90)+360)%360;orient();resetCrop();};
   $('mirrorButton').onclick=()=>{state.mirror=!state.mirror;$('mirrorButton').setAttribute('aria-pressed',String(state.mirror));orient();schedule();};
   $('zoom').oninput=e=>setZoom(+e.target.value);$('zoomOut').onclick=()=>setZoom(state.zoom/1.2);$('zoomIn').onclick=()=>setZoom(state.zoom*1.2);
-  for(const id of ['sampling','dither','background','matte','alpha','finish','showGrid'])$(id).addEventListener('input',schedule);
+  for(const id of ['samplingNearest','samplingSmooth','background','matte','alpha'])$(id).addEventListener('input',schedule);
   $('languageZh').onclick=()=>applyLanguage('zh');$('languageEn').onclick=()=>applyLanguage('en');
-  function view(mode){state.view=mode;$('chartView').setAttribute('aria-pressed',String(mode==='chart'));$('beadView').setAttribute('aria-pressed',String(mode==='bead'));preview.setAttribute('aria-label',t(mode==='chart'?'chartAria':'beadAria'));schedule();}
-  $('chartView').onclick=()=>view('chart');$('beadView').onclick=()=>view('bead');
+  function view(mode){
+    state.view=mode;
+    for(const option of ['chart','holes','solid'])$(option+'View').checked=option===mode;
+    preview.setAttribute('aria-label',t(mode+'Aria'));schedule();
+  }
+  for(const mode of ['chart','holes','solid'])$(mode+'View').addEventListener('change',()=>{if($(mode+'View').checked)view(mode);});
   let drag=null;
   crop.onpointerdown=e=>{if(e.button!==0||drag)return;crop.focus({preventScroll:true});crop.setPointerCapture(e.pointerId);drag={id:e.pointerId,x:e.clientX,y:e.clientY,startX:state.x,startY:state.y};};
   crop.onpointermove=e=>{if(!drag||drag.id!==e.pointerId)return;const r=crop.getBoundingClientRect();state.x=drag.startX+(e.clientX-drag.x)/r.width;state.y=drag.startY+(e.clientY-drag.y)/r.height;schedule();};
@@ -249,9 +269,9 @@ const BeadI18n = (() => {
   crop.onkeydown=e=>{const d=e.shiftKey?4/32:1/32;if(e.key==='ArrowLeft')state.x-=d;else if(e.key==='ArrowRight')state.x+=d;else if(e.key==='ArrowUp')state.y-=d;else if(e.key==='ArrowDown')state.y+=d;else return;e.preventDefault();schedule();};
   crop.addEventListener('wheel',e=>{e.preventDefault();setZoom(state.zoom*Math.exp(-e.deltaY*.001));},{passive:false});
   $('copyButton').onclick=async()=>{
-    flush();const text=$('code').value;
-    try{if(!navigator.clipboard?.writeText)throw new Error('fallback');await navigator.clipboard.writeText(text);status('copied');}
-    catch(e){const box=$('code');box.focus();box.select();box.setSelectionRange(0,box.value.length);let copied=false;try{copied=document.execCommand('copy');}catch(_){}status(copied?'copied':'copyFallback');}
+    flush();clearCopyFeedback();const text=$('code').value;
+    try{if(!navigator.clipboard?.writeText)throw new Error('fallback');await navigator.clipboard.writeText(text);confirmCopy();}
+    catch(e){const box=$('code');box.focus();box.select();box.setSelectionRange(0,box.value.length);let copied=false;try{copied=document.execCommand('copy');}catch(_){}if(copied)confirmCopy();else status('copyFallback');}
   };
   function saveBlob(blob,suffix){const url=URL.createObjectURL(blob),a=document.createElement('a');a.href=url;a.download=state.name.replace(/[<>:"/\\|?*\x00-\x1f]/g,'_').slice(0,80)+suffix;document.body.append(a);a.click();a.remove();setTimeout(()=>URL.revokeObjectURL(url),30000);}
   function png(canvas,suffix){canvas.toBlob(blob=>{if(blob){saveBlob(blob,suffix);status('pngReady');}else status('pngError',true);},'image/png');}
@@ -263,8 +283,8 @@ const BeadI18n = (() => {
   $('downloadChart').onclick=()=>{
     flush();const c=document.createElement('canvas');c.width=1440;c.height=1740;const g=c.getContext('2d');g.fillStyle='#fff';g.fillRect(0,0,c.width,c.height);
     g.fillStyle='#203a35';g.font='bold 38px "Microsoft YaHei",sans-serif';g.fillText(t('chartTitle'),64,70);
-    g.font='22px "Microsoft YaHei",sans-serif';g.fillStyle='#61706b';g.fillText(t('chartSubtitle',{count:1024-state.counts[0],finish:t($('finish').value==='holes'?'holesShort':'solidShort')}),64,113);
-    const left=96,top=168,size=1248,cell=39;drawBoard(g,left,top,size,true,true,true);
+    g.font='22px "Microsoft YaHei",sans-serif';g.fillStyle='#61706b';g.fillText(t('chartSubtitle',{count:1024-state.counts[0]}),64,113);
+    const left=96,top=168,size=1248,cell=39;drawBoard(g,left,top,size,'chart',true);
     g.font='18px ui-monospace,monospace';g.fillStyle='#61706b';g.textAlign='center';g.textBaseline='middle';for(let i=0;i<32;i++){g.fillText(String(i+1),left+(i+.5)*cell,top-23);g.fillText(String(i+1),left-32,top+(i+.5)*cell);}
     for(let i=0;i<16;i++){const x=64+i%8*166,y=1462+Math.floor(i/8)*93;g.fillStyle='#'+C.hex[i];g.fillRect(x,y,42,42);g.strokeStyle='#bcc6ba';g.lineWidth=1;g.strokeRect(x,y,42,42);g.fillStyle=textColor(i);g.font='bold 22px ui-monospace,monospace';g.fillText(C.symbols[i+1],x+21,y+23);g.textAlign='left';g.fillStyle='#203a35';g.font='20px "Microsoft YaHei",sans-serif';g.fillText(t('colorNames')[i],x+51,y+13);g.font='18px ui-monospace,monospace';g.fillText(t('beadQuantity',{count:state.counts[i+1]}),x+51,y+39);g.textAlign='center';}
     g.textAlign='left';g.fillStyle='#61706b';g.font='18px "Microsoft YaHei",sans-serif';g.fillText(t('chartFooter'),64,1690);png(c,t('chartSuffix'));
